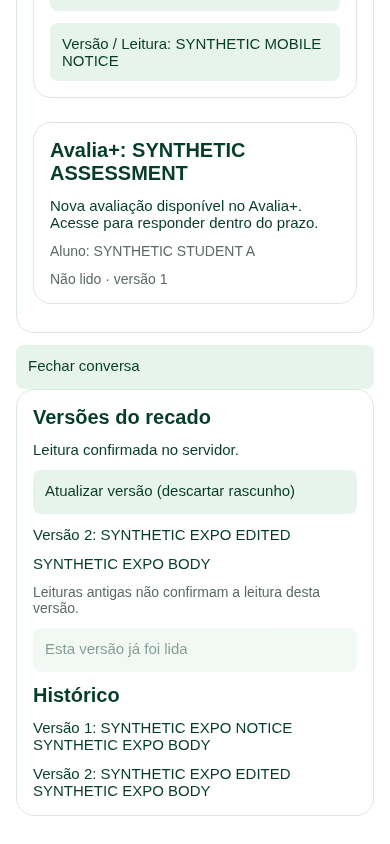
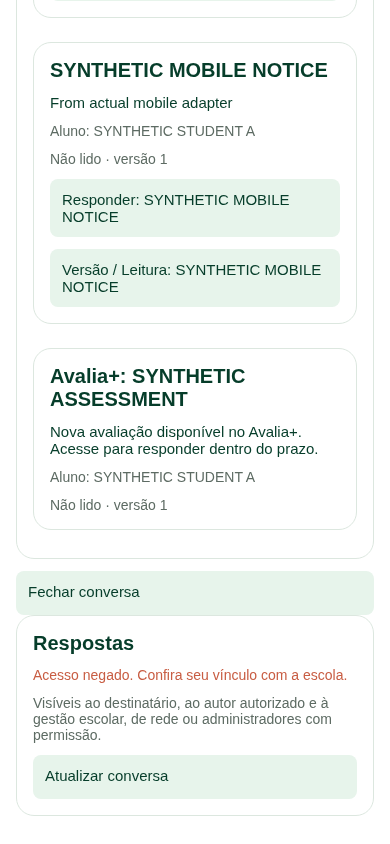
fix(mobile): retain confirmed edits and clear denied content on refresh

Changed region(s): [[0.0615, 0.4313, 0.8615, 0.955], [0.1231, 0.0308, 0.8308, 0.3697], [0.6462, 0.6777, 0.8308, 0.7085]]

diff --git a/mobile/src/screens/CommunicationJourney.tsx b/mobile/src/screens/CommunicationJourney.tsx
@@ -29,7 +29,14 @@ const pendingReplies = new Map<
 const replyListeners = new Map<string, Set<(body: string) => void>>();
 const pendingEdits = new Map<
   string,
-  { title: string; body: string; revision: number; requestId: string }
+  {
+    title: string;
+    body: string;
+    revision: number;
+    requestId: string;
+    confirmed?: boolean;
+    inFlight?: Promise<unknown>;
+  }
 >();
 type Api = ReturnType<typeof journeyApi>;
 type Sent = Awaited<ReturnType<Api["teacherNotices"]>>;
@@ -85,6 +92,10 @@ function Messages({
     [delivery, setDelivery] = useState(""),
     [view, setView] = useState<"list" | "replies" | "notice">("list");
   async function reload() {
+    setInbox([]);
+    setSent([]);
+    setThreads([]);
+    setLoaded(false);
     if (teacher) setSent(await api.teacherNotices());
     else setInbox(await api.inbox());
     setLoaded(true);
@@ -281,8 +292,12 @@ function ReplyPanel({
       if (!listeners.size) replyListeners.delete(key);
     };
   }, [key]);
+  async function refreshThread() {
+    setThread(null);
+    setThread(await api.thread(delivery));
+  }
   useEffect(() => {
-    void op.run(async () => setThread(await api.thread(delivery)));
+    void op.run(refreshThread);
   }, [api, delivery]);
   return (
     <JourneyCard>
@@ -346,7 +361,7 @@ function ReplyPanel({
                 );
                 op.setMessage("Resposta confirmada no servidor.");
                 try {
-                  setThread(await api.thread(delivery));
+                  await refreshThread();
                 } catch {
                   op.setMessage(
                     "Resposta confirmada no servidor. Não foi possível atualizar a conversa; tente Atualizar conversa.",
@@ -360,9 +375,7 @@ function ReplyPanel({
       <Action
         title="Atualizar conversa"
         disabled={op.busy}
-        onPress={() =>
-          void op.run(async () => setThread(await api.thread(delivery)))
-        }
+        onPress={() => void op.run(refreshThread)}
       />
     </JourneyCard>
   );
@@ -386,9 +399,11 @@ function NoticePanel({
     [title, setTitle] = useState(""),
     [body, setBody] = useState("");
   async function load() {
+    setNotice(null);
     const n = await api.notice(id, delivery);
     setNotice(n);
-    const pending = pendingEdits.get(key);
+    const saved = pendingEdits.get(key);
+    const pending = saved?.confirmed ? undefined : saved;
     setTitle(pending?.title ?? n.title);
     setBody(pending?.body ?? n.body);
   }
@@ -477,17 +492,30 @@ function NoticePanel({
                         requestId: newRequestId(),
                       };
                     pendingEdits.set(key, draft);
-                    await api.edit(
-                      id,
-                      draft.revision,
-                      draft.title,
-                      draft.body,
-                      draft.requestId,
-                    );
-                    pendingEdits.delete(key);
-                    await load();
-                    await onChanged();
+                    if (!draft.confirmed) {
+                      draft.inFlight ||= api.edit(
+                        id,
+                        draft.revision,
+                        draft.title,
+                        draft.body,
+                        draft.requestId,
+                      );
+                      try {
+                        await draft.inFlight;
+                        draft.confirmed = true;
+                      } finally {
+                        draft.inFlight = undefined;
+                      }
+                    }
                     op.setMessage("Nova versão confirmada no servidor.");
+                    try {
+                      await load();
+                      await onChanged();
+                    } catch {
+                      op.setMessage(
+                        "Nova versão confirmada no servidor. Não foi possível atualizar os recados; tente atualizar.",
+                      );
+                    }
                   })
                 }
               />

diff --git a/mobile/src/screens/AssessmentJourney.tsx b/mobile/src/screens/AssessmentJourney.tsx
@@ -10,6 +10,7 @@ import {
   journeyGates,
   latestAttempt,
   finished,
+  isUncertain,
   type Gates,
   type StudentWork,
   type Published,
@@ -178,7 +179,7 @@ function TeacherAssessments({
                       "Avaliação salva no servidor. Selecione Publicar para enviar à turma.",
                     );
                   } catch (e) {
-                    setUncertain(true);
+                    setUncertain(isUncertain(e));
                     throw e;
                   } finally {
                     setDrafts(await api.drafts());

diff --git a/mobile/src/services/journeys.ts b/mobile/src/services/journeys.ts
@@ -100,7 +100,7 @@ export function newRequestId() {
     return (c === "x" ? r : (r & 3) | 8).toString(16);
   });
 } // Idempotency identifier, never a credential.
-function isUncertain(error: unknown) {
+export function isUncertain(error: unknown) {
   return (
     error instanceof TypeError ||
     (error instanceof Error &&
